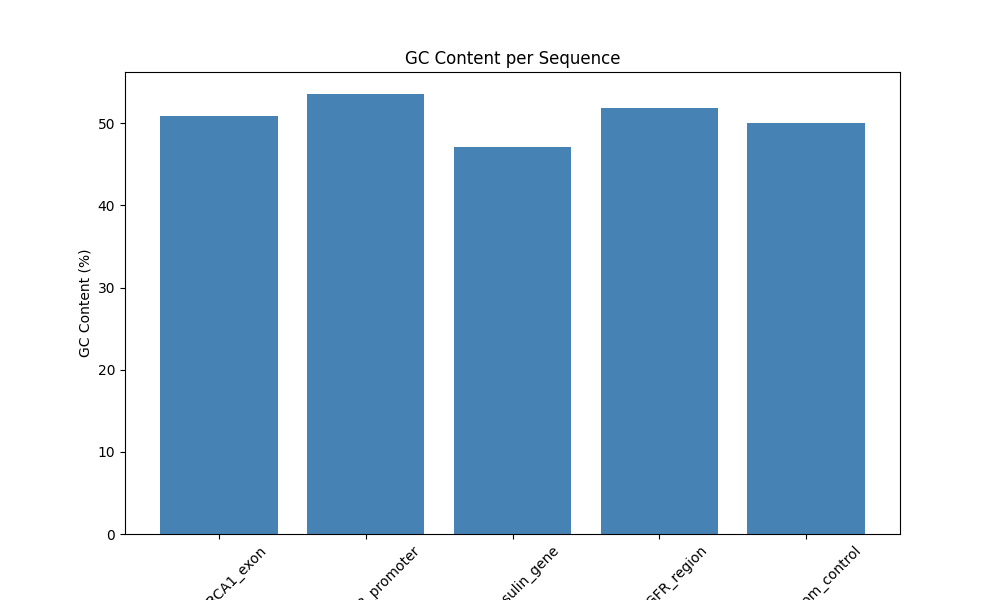
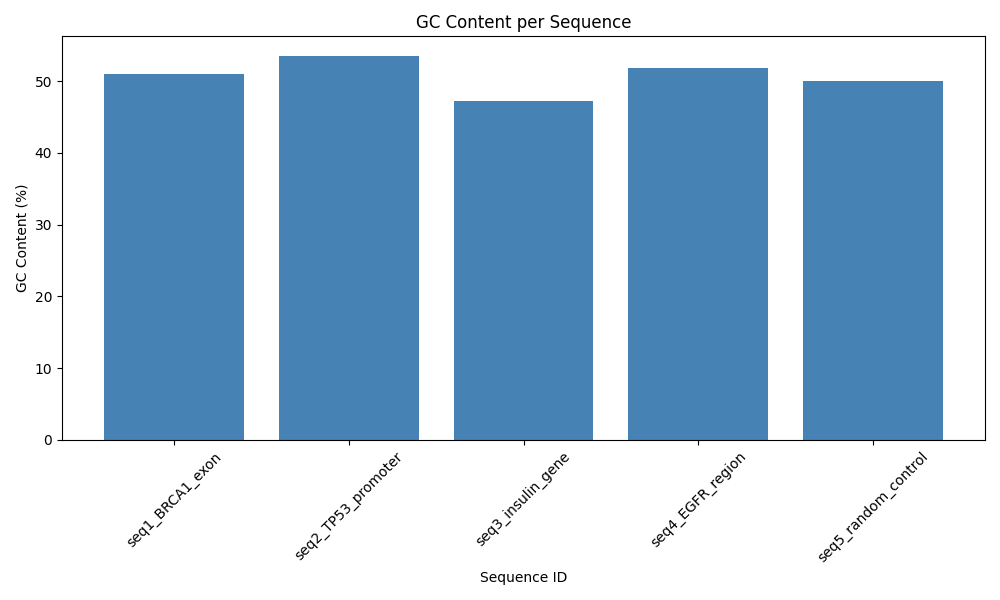
Day 6: added ORF detection and zero-ORF warning flag

diff --git a/analyze.py b/analyze.py
@@ -1,53 +1,83 @@
-#analyze .py
-#DNA sequence analyzer- Day 2
+#analyze.py
+#DNA sequence Analyzer
+
 from Bio import SeqIO
 import pandas as pd
 import matplotlib.pyplot as plt
+
 fasta_file = "data/sequences.fasta"
+
 def calculate_gc_content(sequence):
     sequence = str(sequence)
     gc = (sequence.count("G") + sequence.count("C")) / len(sequence) * 100
-    return round(gc, 2)
+    return round(gc,2)
+
 def count_nucleotides(sequence):
     sequence = str(sequence)
     counts = {
-        "A": sequence.count("A"),
+        "A" : sequence.count("A"),
         "T": sequence.count("T"),
         "G": sequence.count("G"),
         "C": sequence.count("C")
     }
     return counts
-def get_sequence_length(sequence):
+
+def get_sequence_lengths(sequence):
     return len(sequence)
+
+def find_orfs(sequence):
+    sequence = str(sequence)
+    start_codon = "ATG"
+    stop_codons = ["TAA", "TAG", "TGA"]
+    orfs = []
+    for i in range(len(sequence)):
+        if sequence[i:i+3] == start_codon:
+            for j in range(i, len(sequence), 3):
+                codon = sequence[j:j+3]
+                if codon in stop_codons:
+                    orfs.append(sequence[i:j+3])
+                    break
+    return orfs
+
 results = []
 for record in SeqIO.parse(fasta_file, "fasta"):
     gc = calculate_gc_content(record.seq)
     counts = count_nucleotides(record.seq)
-    length = get_sequence_length(record.seq)
+    length = get_sequence_lengths(record.seq)
+    orfs = find_orfs(record.seq)
     row = {
-    "id": record.id,
-    "length": length,
-    "gc_content": gc,
-    "A": counts["A"],
-    "T": counts["T"],
-    "C": counts["C"],
-    "G": counts["G"]
-}
+        "id": record.id,
+        "length": length,
+        "gc_content": gc,
+        "A": counts["A"],
+        "T": counts["T"],
+        "G": counts["G"],
+        "C": counts["C"], 
+        "orf_counts": len(orfs)
+    }
     results.append(row)
+
 df = pd.DataFrame(results)
-df["at_content"] = round(100 - df["gc_content"], 2)
-df["gc_at_ratio"] = round(df["gc_content"] / df["at_content"], 2)
+df["at_content"] = round(100-df["gc_content"], 2)
+df["gc_at_ratio"] = round(df["gc_content"]/df["at_content"], 2)
+no_orf_sequences = df[df["orf_counts"] == 0]
+if len(no_orf_sequences) > 0:
+    print("WARNING: These sequences have no ORFs:")
+    print(no_orf_sequences["id"].values)
 df.to_csv("outputs/results.csv", index=False)
 print("Results saved to outputs/results.csv")
+
 plt.figure(figsize=(10, 6))
 plt.bar(df["id"], df["gc_content"], color="steelblue")
 plt.title("GC Content per Sequence")
 plt.xlabel("Sequence ID")
 plt.ylabel("GC Content (%)")
 plt.xticks(rotation=45)
+plt.tight_layout()
 plt.savefig("outputs/plots/gc_content_bar.png")
 plt.close()
 print("GC content bar chart saved!")
+
 plt.figure(figsize=(10, 6))
 plt.hist(df["length"], bins=5, color="green", edgecolor="black")
 plt.title("Sequence Length Distribution")
@@ -57,6 +87,7 @@ plt.tight_layout()
 plt.savefig("outputs/plots/length_histogram.png")
 plt.close()
 print("Length histogram saved!")
+
 plt.figure(figsize=(10, 6))
 plt.bar(df["id"], df["A"], label="A", color="steelblue")
 plt.bar(df["id"], df["T"], bottom=df["A"], label="T", color="coral")
@@ -71,9 +102,22 @@ plt.tight_layout()
 plt.savefig("outputs/plots/nucleotide_composition.png")
 plt.close()
 print("Nucleotide composition chart saved!")
+
+plt.figure(figsize=(10, 6))
+plt.scatter(df["length"], df["gc_content"], color="purple", s=100, zorder=5)
+plt.axhline(y=50, color="red", linestyle="--", label="50% GC reference")
+plt.title("GC Content vs Sequence Length")
+plt.xlabel("Sequence Length (bp)")
+plt.ylabel("GC Content (%)")
+plt.legend()
+plt.tight_layout()
+plt.savefig("outputs/plots/gc_vs_length_scatter.png")
+plt.close()
+print("Scatter plot saved!")
+
 fig, axes = plt.subplots(2, 2, figsize=(14, 10))
 axes[0][0].bar(df["id"], df["gc_content"], color="steelblue")
-axes[0][0].set_title("GC content per Sequence")
+axes[0][0].set_title("GC Content per Sequence")
 axes[0][0].tick_params(axis='x', rotation=45)
 axes[0][1].hist(df["length"], bins=5, color="green", edgecolor="black")
 axes[0][1].set_title("Sequence Length Distribution")
@@ -91,17 +135,8 @@ plt.tight_layout()
 plt.savefig("outputs/plots/combined_plots.png")
 plt.close()
 print("Summary panel saved!")
-plt.figure(figsize=(10, 6))
-plt.scatter(df["length"], df["gc_content"], color="purple", s=100, zorder=5)
-plt.axhline(y=50, color="red", linestyle="--", label="50% GC reference")
-plt.title("GC Content vs Sequence Length")
-plt.xlabel("Sequence Length (bp)")
-plt.ylabel("GC Content (%)")
-plt.legend()
-plt.tight_layout()
-plt.savefig("outputs/plots/gc_vs_length_scatter.png")
-plt.close()
-print("GC content vs sequence length scatter plot saved!")
+
+
 
 
 